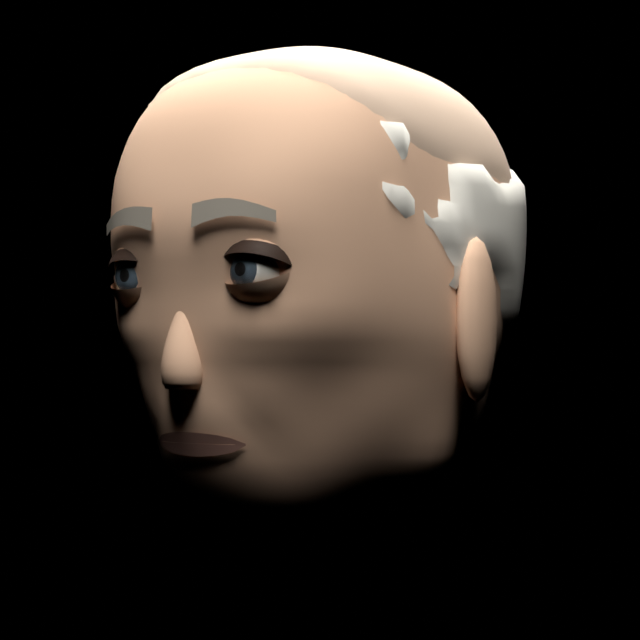
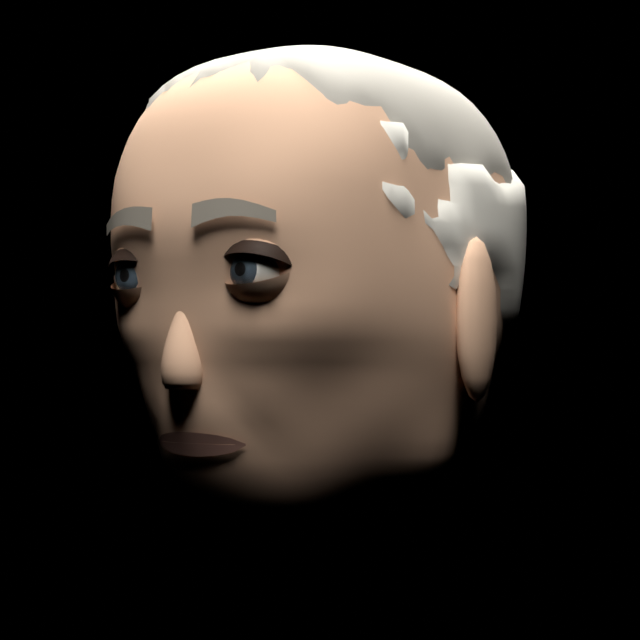
Design: Walter top hair greyer with broken hairline (reads at 50 mm)
Claude-Session: https://claude.ai/code/session_01W37kuJaPfCxGNG6Qm9m3cN

diff --git a/film/design/rig/heads.py b/film/design/rig/heads.py
@@ -101,7 +101,7 @@ def default_materials(name):
         "lid_ink": _mat(f"hd_{k}_lidink", _lin(s.get("lid_ink", "#24180F")), rough=0.6),
         "hair": _mat(f"hd_{k}_hair", c(f"{k}/hair")),
         "brow": _mat(f"hd_{k}_brow", _lin({"noor": "#231B18", "kai": "#1E1A18", "bea": "#231915", "walter": "#9E978D"}[k])),
-        "hair_thin": _mat(f"hd_{k}_hairthin", _lin({"walter": "#D6BFAC"}.get(k, "#1E1A19"))),
+        "hair_thin": _mat(f"hd_{k}_hairthin", _lin({"walter": "#BDB8B0"}.get(k, "#1E1A19"))),
         "lips": _mat(f"hd_{k}_lips", c(f"{k}/lips")),
         "sclera": _mat(f"hd_{k}_sclera", _lin(s.get("sclera", "#E9E6DE")), rough=0.35),
         "iris": _mat(f"hd_{k}_iris", c(f"{k}/iris"), rough=0.4),
@@ -576,7 +576,7 @@ def _hair(name, s, skull, M, root, collection, ph):
         shell(hairline(0.38, -0.02, -0.45), lambda c: 1.045)
     elif name == "WALTER":
         # thinning white hair, combed back: a fuller band round the sides and back, and a thin top
-        # (lighter, scalp showing through) from a receding hairline. Not bald.
+        # (light grey #BDB8B0, so it separates from the skin) from a receding, broken hairline. Not bald.
         # a soft band wrapping continuously round the back, sitting a little behind and above the ears
         # (ears in front), with an irregular painted edge broken into strands at the temples: hair, not hardware
         side = hairline(1.5, 0.12, -0.50)
@@ -595,8 +595,9 @@ def _hair(name, s, skull, M, root, collection, ph):
         bm = _sphere(1.0, 64, 44)
         for v in bm.verts:
             c = v.co.copy()
-            k = ss(-0.06, 0.06, shell_top(c))
-            v.co = skull.shape(c) * (0.94 + (1.012 - 0.94) * k)
+            a_ = math.atan2(c.x, c.y)
+            k = ss(-0.05, 0.05, shell_top(c) + 0.04 * math.sin(13 * a_) + 0.03 * math.sin(7 * c.x * 9))  # soft, broken hairline
+            v.co = skull.shape(c) * (0.94 + (1.016 - 0.94) * k)
         _mesh_obj(f"{name}_HD_HAIR_TOP", bm, [Mt["hair"]], collection, root, pass_index=ph)
 
 

diff --git a/film/STATUS.md b/film/STATUS.md
@@ -74,3 +74,4 @@ Append-only log. Newest at the bottom. Format: `- [role] what happened (file)`
 - [designer] Walter shot 38 v2 per Director (not 'spooky'): flatter, wider dome; full white side/back band in silhouette with ears; age in lines not hollows; larger eyes with lifted lower lid; wrapped knotted scarf; newspaper bounce test (paper albedo + GI, no fill) (design/rig/renders/walter_s38_*.png)
 - [dp] Full previs pass 1 reviewed (all 65 shots + test renders). The build now checks occlusion (Walter, Bea, Kai, and Noor from the TA's blocking.json) and that cued panels are in frame at cue time along moving paths. Fixed: 20 (G2), 22/23 (over-shoulder paper), 24 (S), 25 (POV), 27 (T 50), 31 (R), 32 (K insert), 33 (E), 44 (B2), 51 (lap POV), 60 (aim standing), 61 (E3); shot 42 push 1.8 m tilted ~1° (camera/)
 - [designer] Director APPROVED Walter v2 for pass 2; tweak applied: side hair is now a soft irregular band wrapping the back, behind/above the ears, broken into strands at the temples (no 'ear-muffs') (design/rig/heads.py)
+- [designer] Walter top hair per TA check: light grey #BDB8B0 with a soft broken hairline so 'receding, not bald' reads at 50 mm (design/rig/heads.py)
